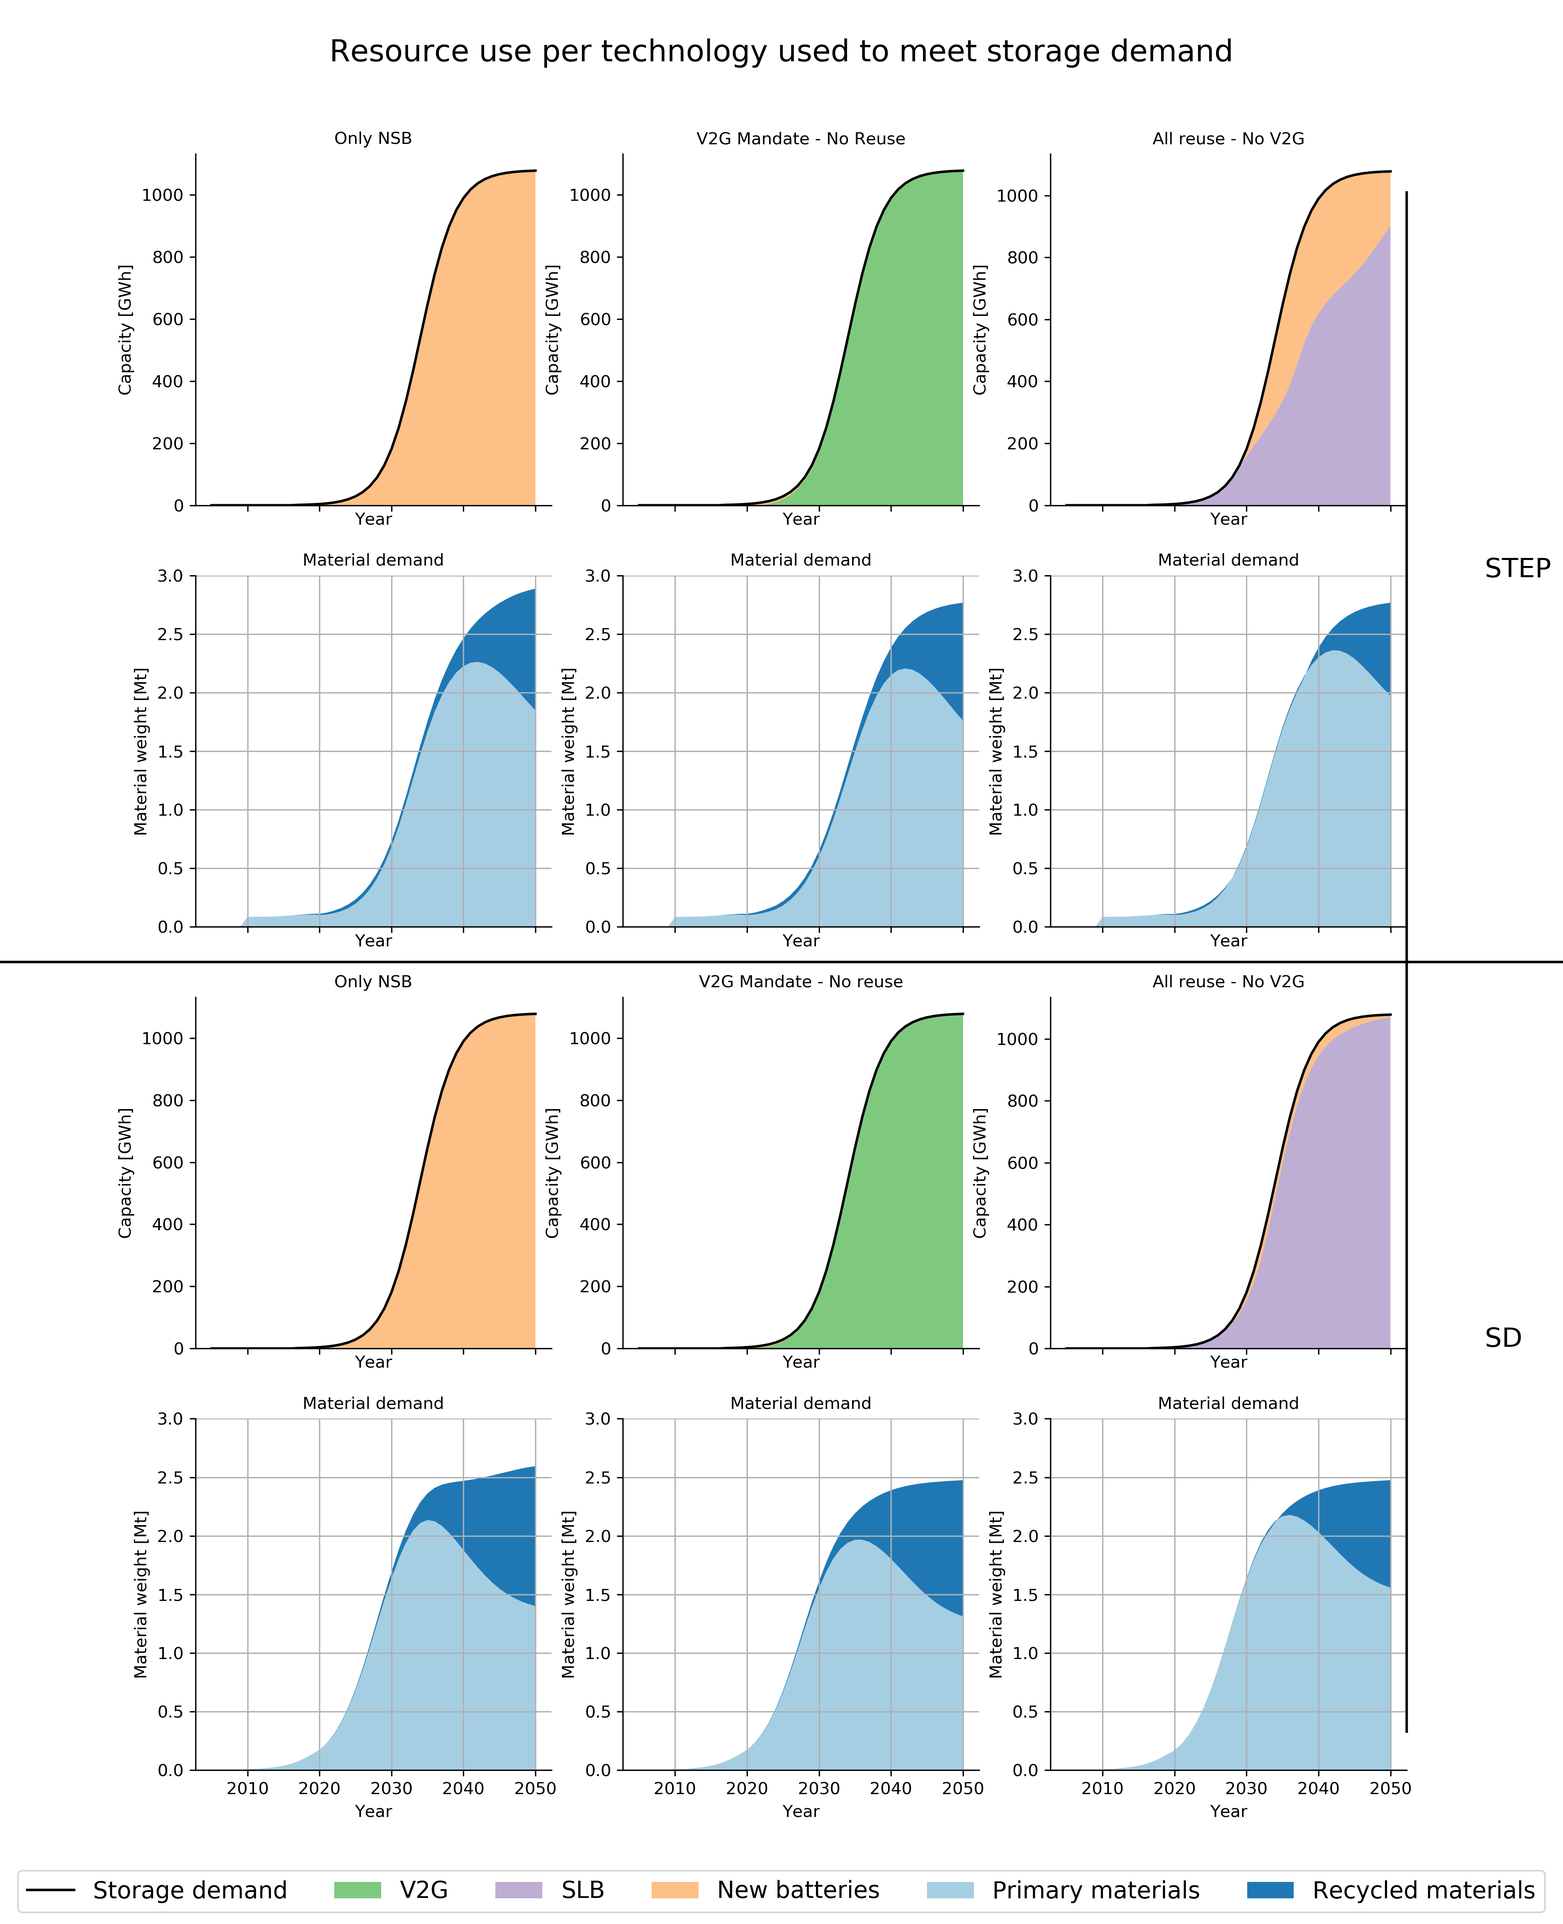
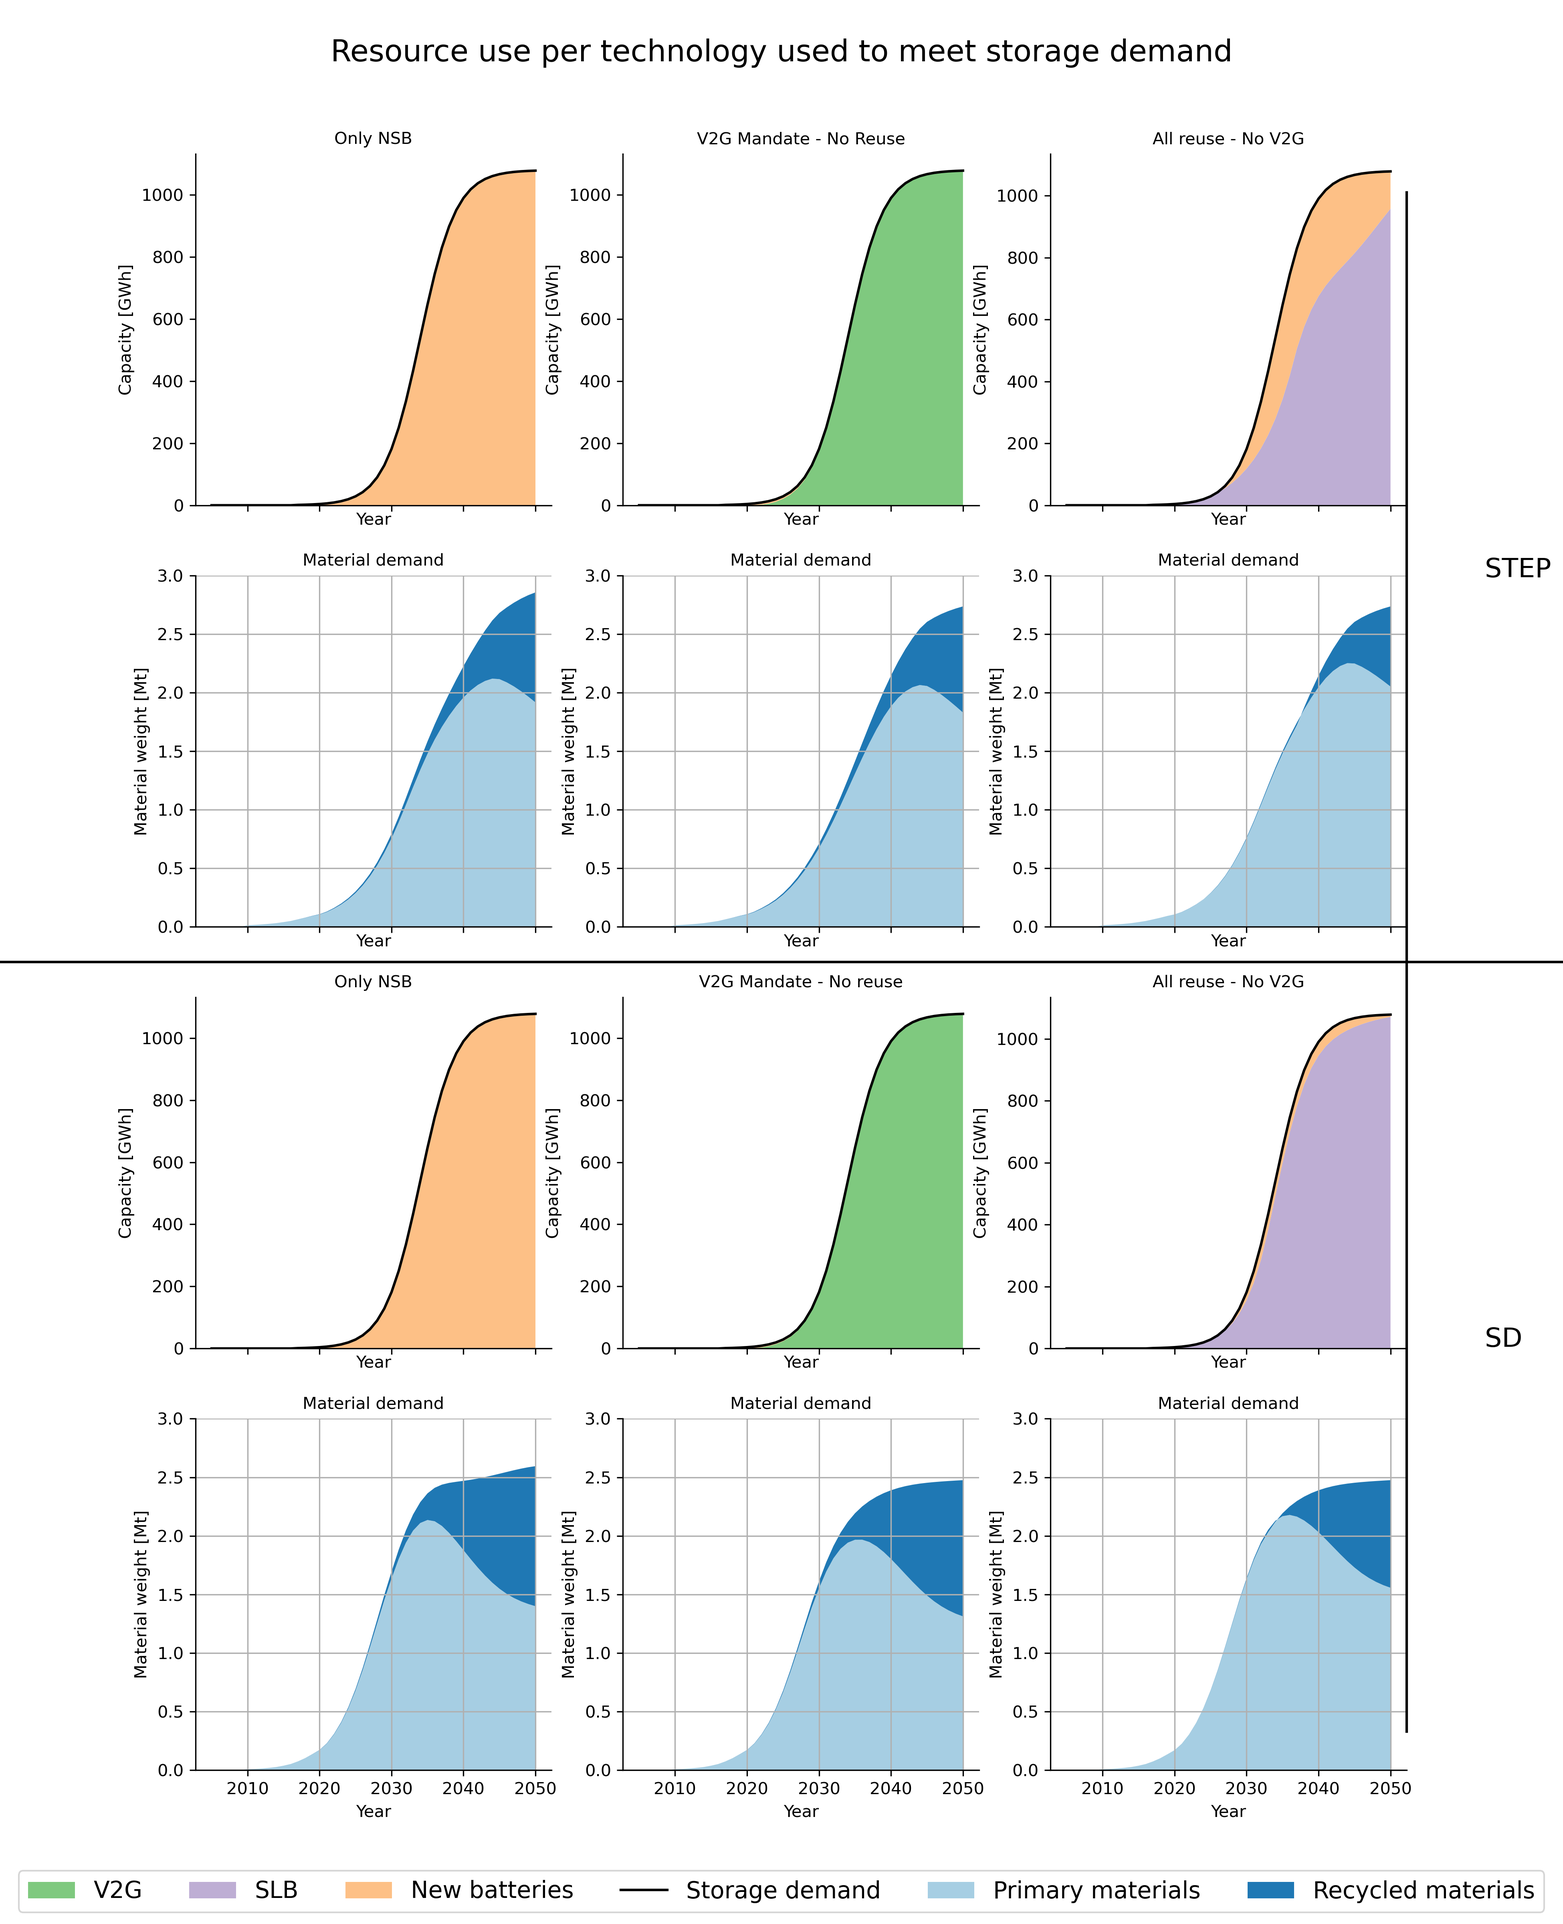
Re-did Figure 1

diff --git a/Model.py b/Model.py
@@ -1,5 +1,7 @@
 # %% 
 # Load a local copy of the current ODYM branch:
+from asyncio import new_event_loop
+from curses.panel import bottom_panel
 import sys
 import os
 import numpy as np
@@ -19,6 +21,8 @@ from tqdm import tqdm
 import time
 import matplotlib
 import product_component_model as pcm
+xlrd.xlsx.Element_has_iter = True
+
 mpl_logger = log.getLogger("matplotlib")
 mpl_logger.setLevel(log.WARNING)  
 # For Ipython Notebook only
@@ -52,6 +56,7 @@ Mylog.info('### 1. - Initialize.')
 #Load project-specific config file
 ProjectSpecs_ConFile = 'ODYM_Config_Vehicle_System.xlsx'
 Model_Configfile     = xlrd.open_workbook(os.path.join(DataPath, ProjectSpecs_ConFile))
+# Model_Configfile     = pd.read_excel(os.path.join(DataPath, ProjectSpecs_ConFile), engine = 'openpyxl')
 ScriptConfig         = {'Model Setting': Model_Configfile.sheet_by_name('Config').cell_value(3,3)} # Dictionary with config parameters
 Model_Configsheet    = Model_Configfile.sheet_by_name('Setting_' + ScriptConfig['Model Setting'])
 
@@ -140,7 +145,7 @@ ParameterDict = {}
 mo_start = 0 # set mo for re-reading a certain parameter
 ParameterDict['Vehicle_stock']= msc.Parameter(Name = 'Vehicle_stock',
                                                              ID = 1,
-                                                             P_Res = None,
+                                                             P_Res = 3,
                                                              MetaData = None,
                                                              Indices = 'z,t', #t=time, h=units
                                                              Values = np.load(os.getcwd()+'/data/scenario_data/stock.npy'), # in thousands
@@ -159,13 +164,13 @@ ParameterDict['Segment_shares']= msc.Parameter(Name = 'Segment_shares',
                                                              ID = 3,
                                                              P_Res = None,
                                                              MetaData = None,
-                                                             Indices = 'S,g,s,c', #t=time, h=units
-                                                             Values = np.load(os.getcwd()+'/data/scenario_data/vehicleSize_motorEnergy_passengerCars_global.npy')[:,5,:,:,:], # in %
+                                                             Indices = 'g,s,c', #t=time, h=units
+                                                             Values = np.load(os.getcwd()+'/data/scenario_data/vehicleSize_motorEnergy_passengerCars.npy')[:,:,:], # in %
                                                              Uncert=None,
                                                              Unit = '%')
 
 ParameterDict['Battery_chemistry_shares']= msc.Parameter(Name = 'Battery_chemistry_shares',
-                                                             ID = 3,
+                                                             ID = 4,
                                                              P_Res = None,
                                                              MetaData = None,
                                                              Indices = 'a,g,b,c', #t=time, h=units
@@ -176,7 +181,7 @@ ParameterDict['Battery_chemistry_shares']= msc.Parameter(Name = 'Battery_chemist
 
 
 ParameterDict['Material_content']= msc.Parameter(Name = 'Materials',
-                                                             ID = 3,
+                                                             ID = 5,
                                                              P_Res = None,
                                                              MetaData = None,
                                                              Indices = 'g,s,b,e', #t=time, h=units
@@ -257,6 +262,8 @@ ParameterDict['Storage_demand']= msc.Parameter(Name = 'Storage_demand',
                                                              Values = np.load(os.getcwd()+'/data/scenario_data/Energy_storage_demand.npy'),
                                                              Uncert=None,
                                                              Unit = 'GWh')
+
+#TODO: Add degradation NSB
 
 MaTrace_System = msc.MFAsystem(Name = 'MaTrace_Vehicle_Fleet_Global', 
                       Geogr_Scope = 'EU', 
@@ -465,13 +472,13 @@ for z in range(Nz):
                 lt_cm = {'Type': 'Normal', 'Mean': lt_bat, 'StdDev': sd_bat}, tau_cm = tau_bat)
             Model.case_1()
             # Vehicles layer
-            MaTrace_System.StockDict['S_C_3'].Values[z,S,g,:,:,:]           = np.einsum('sc,tc->stc', MaTrace_System.ParameterDict['Segment_shares'].Values[S,g,:,:] ,np.einsum('c,tc->tc', MaTrace_System.ParameterDict['Drive_train_shares'].Values[S,g,:],Model.sc_pr.copy()))
+            MaTrace_System.StockDict['S_C_3'].Values[z,S,g,:,:,:]           = np.einsum('sc,tc->stc', MaTrace_System.ParameterDict['Segment_shares'].Values[g,:,:] ,np.einsum('c,tc->tc', MaTrace_System.ParameterDict['Drive_train_shares'].Values[S,g,:],Model.sc_pr.copy()))
             MaTrace_System.StockDict['S_3'].Values[z,S,g,:,:]               = np.einsum('stc->st', MaTrace_System.StockDict['S_C_3'].Values[z,S,g,:,:,:])
-            MaTrace_System.FlowDict['V_2_3'].Values[z,S,g,:,:]              = np.einsum('sc,c->sc', MaTrace_System.ParameterDict['Segment_shares'].Values[S,g,:,:],np.einsum('c,c->c', MaTrace_System.ParameterDict['Drive_train_shares'].Values[S,g,:],Model.i_pr.copy()))
-            MaTrace_System.FlowDict['V_3_4'].Values[z,S,g,:,:,:]            = np.einsum('sc,tc->stc', MaTrace_System.ParameterDict['Segment_shares'].Values[S,g,:,:],np.einsum('c,tc->tc', MaTrace_System.ParameterDict['Drive_train_shares'].Values[S,g,:] , Model.oc_pr.copy()))
+            MaTrace_System.FlowDict['V_2_3'].Values[z,S,g,:,:]              = np.einsum('sc,c->sc', MaTrace_System.ParameterDict['Segment_shares'].Values[g,:,:],np.einsum('c,c->c', MaTrace_System.ParameterDict['Drive_train_shares'].Values[S,g,:],Model.i_pr.copy()))
+            MaTrace_System.FlowDict['V_3_4'].Values[z,S,g,:,:,:]            = np.einsum('sc,tc->stc', MaTrace_System.ParameterDict['Segment_shares'].Values[g,:,:],np.einsum('c,tc->tc', MaTrace_System.ParameterDict['Drive_train_shares'].Values[S,g,:] , Model.oc_pr.copy()))
 
             ###  LIBs layer, we calculate the stocks anew but this time via the battery dynamics S_C_bat
-            MaTrace_System.StockDict['B_C_3'].Values[z,S,:,g,:,:,:,:]       = np.einsum('abc,stc->asbtc', MaTrace_System.ParameterDict['Battery_chemistry_shares'].Values[:,g,:,:] , np.einsum('sc,tc->stc', MaTrace_System.ParameterDict['Segment_shares'].Values[S,g,:,:] \
+            MaTrace_System.StockDict['B_C_3'].Values[z,S,:,g,:,:,:,:]       = np.einsum('abc,stc->asbtc', MaTrace_System.ParameterDict['Battery_chemistry_shares'].Values[:,g,:,:] , np.einsum('sc,tc->stc', MaTrace_System.ParameterDict['Segment_shares'].Values[g,:,:] \
                 ,np.einsum('c,tc->tc', MaTrace_System.ParameterDict['Drive_train_shares'].Values[S,g,:],Model.sc_cm.copy())))
             MaTrace_System.StockDict['B_3'].Values[z,S,:,g,:,:,:]           = np.einsum('asbtc->asbt', MaTrace_System.StockDict['B_C_3'].Values[z,S,:,g,:,:,:,:])
             ### Calculate share of stock with V2G
@@ -482,11 +489,11 @@ for z in range(Nz):
             # Calculating batteryy demand to battery manufacturer including reuse and replacements
             #       Use Model.case_3() instead. This considers two different lifetimes, but replacements and reuse are not allowed.
             #       If we keep this definition, we need to add two additional flows B_1_3 and B_4_3
-            MaTrace_System.FlowDict['B_1_2'].Values[z,S,:,g,:,:,:]            = np.einsum('abt,st->asbt', MaTrace_System.ParameterDict['Battery_chemistry_shares'].Values[:,g,:,:] , np.einsum('sc,c->sc', MaTrace_System.ParameterDict['Segment_shares'].Values[S,g,:,:], \
+            MaTrace_System.FlowDict['B_1_2'].Values[z,S,:,g,:,:,:]            = np.einsum('abt,st->asbt', MaTrace_System.ParameterDict['Battery_chemistry_shares'].Values[:,g,:,:] , np.einsum('sc,c->sc', MaTrace_System.ParameterDict['Segment_shares'].Values[g,:,:], \
                 np.einsum('c,c->c', MaTrace_System.ParameterDict['Drive_train_shares'].Values[S,g,:],Model.i_cm.copy())))
             # Calculating the outflows based on the battery demand. Here again, this flow will be larger than the number of vehicles due to battery replacements, if allowed.
             # At the moment: LIB flows = EV flows
-            MaTrace_System.FlowDict['B_3_4'].Values[z,S,:,g,:,:,:,:]        = np.einsum('abc,stc->asbtc', MaTrace_System.ParameterDict['Battery_chemistry_shares'].Values[:,g,:,:] , np.einsum('sc,tc->stc', MaTrace_System.ParameterDict['Segment_shares'].Values[S,g,:,:], \
+            MaTrace_System.FlowDict['B_3_4'].Values[z,S,:,g,:,:,:,:]        = np.einsum('abc,stc->asbtc', MaTrace_System.ParameterDict['Battery_chemistry_shares'].Values[:,g,:,:] , np.einsum('sc,tc->stc', MaTrace_System.ParameterDict['Segment_shares'].Values[g,:,:], \
                 np.einsum('c,tc->tc', MaTrace_System.ParameterDict['Drive_train_shares'].Values[S,g,:] , Model.oc_cm.copy())))
             MaTrace_System.FlowDict['B_4_5'].Values[z,S,:,g,:,:,:,:]      = MaTrace_System.FlowDict['B_3_4'].Values[z,S,:,g,:,:,:,:]
             '''
@@ -704,26 +711,26 @@ what is insightful and meaningful as a figure and can create those figures for t
 The following is the code for the figures we show Francois 16.09.21
 '''
 # %% 
-def plot_V2G_scenarios():
+def plot_capacity_scenarios():
     from cycler import cycler
     import seaborn as sns
     scen_cycler = (cycler(color=['orangered', 'royalblue']) *
           cycler(linestyle=['-','--',':']))    
     z = 1 # Low, medium, high
     s = 1 # Low, medium, high
-    a = 0 # NCX, LFP, Next_Gen, Roskill
+    a = 4 # NCX, LFP, Next_Gen, Roskill
     R = 1 # LFP reused, no reuse, all reuse
     v = 4 # Low, medium, high, v2g mandate, no v2g
     e = 2 # Low, medium, high
     fig, ax = plt.subplots(1,2,figsize=(16,7))
     ax[0].set_prop_cycle(scen_cycler)
     ax[0].plot(MaTrace_System.IndexTable['Classification']['Time'].Items[70::], MaTrace_System.ParameterDict['Storage_demand'].Values[0,70::]/1000, '--k')
-    ax[0].plot(MaTrace_System.IndexTable['Classification']['Time'].Items[70::], MaTrace_System.ParameterDict['Storage_demand'].Values[2,70::]/1000, 'xk')
-    ax[0].plot(MaTrace_System.IndexTable['Classification']['Time'].Items[70::], MaTrace_System.ParameterDict['Storage_demand'].Values[3,70::]/1000, 'k')
-    ax[0].plot(MaTrace_System.IndexTable['Classification']['Time'].Items[70::], MaTrace_System.StockDict['C_3'].Values[z,0,a,0,:,70::].sum(axis=0)/1000, 'orangered', linestyle='-')
+    ax[0].plot(MaTrace_System.IndexTable['Classification']['Time'].Items[70::], MaTrace_System.ParameterDict['Storage_demand'].Values[1,70::]/1000, 'xk')
+    ax[0].plot(MaTrace_System.IndexTable['Classification']['Time'].Items[70::], MaTrace_System.ParameterDict['Storage_demand'].Values[2,70::]/1000, 'k')
+    ax[0].plot(MaTrace_System.IndexTable['Classification']['Time'].Items[70::], MaTrace_System.StockDict['C_3'].Values[z,0,a,1,:,70::].sum(axis=0)/1000, 'orangered', linestyle='-')
     ax[0].plot(MaTrace_System.IndexTable['Classification']['Time'].Items[70::], MaTrace_System.StockDict['C_3'].Values[z,0,a,2,:,70::].sum(axis=0)/1000)
     ax[0].plot(MaTrace_System.IndexTable['Classification']['Time'].Items[70::], MaTrace_System.StockDict['C_3'].Values[z,0,a,3,:,70::].sum(axis=0)/1000)
-    ax[0].plot(MaTrace_System.IndexTable['Classification']['Time'].Items[70::], MaTrace_System.StockDict['C_3'].Values[z,1,a,0,:,70::].sum(axis=0)/1000)
+    ax[0].plot(MaTrace_System.IndexTable['Classification']['Time'].Items[70::], MaTrace_System.StockDict['C_3'].Values[z,1,a,1,:,70::].sum(axis=0)/1000)
     ax[0].plot(MaTrace_System.IndexTable['Classification']['Time'].Items[70::], MaTrace_System.StockDict['C_3'].Values[z,1,a,2,:,70::].sum(axis=0)/1000)
     ax[0].plot(MaTrace_System.IndexTable['Classification']['Time'].Items[70::], MaTrace_System.StockDict['C_3'].Values[z,1,a,3,:,70::].sum(axis=0)/1000)
     ax[0].set_ylabel('Capacity [TWh]',fontsize =18)
@@ -731,7 +738,7 @@ def plot_V2G_scenarios():
     right_side.set_visible(False)
     top = ax[0].spines["top"]
     top.set_visible(False)
-    ax[0].legend(['Low storage demand','Medium storage demand','High storage demand', 'V2G low, STEP', 'V2G moderate, STEP', 'V2G mandate, STEP', 'V2G low, SD', 'V2G moderate, SD', 'V2G mandate, SD'], loc='upper left',prop={'size':15})
+    ax[0].legend(['Low storage demand','Medium storage demand','High storage demand', 'V2G low, STEP', 'V2G medium, STEP', 'V2G mandate, STEP', 'V2G low, SD', 'V2G medium, SD', 'V2G mandate, SD'], loc='upper left',prop={'size':15})
     ax[0].set_title('a) Available V2G capacity by scenario'.format(S), fontsize=20)
     ax[0].set_xlabel('Year',fontsize =16)
     ax[0].tick_params(axis='both', which='major', labelsize=18)
@@ -750,14 +757,14 @@ def plot_V2G_scenarios():
     e = 2 # Low, medium, high
     ax[1].set_prop_cycle(scen_cycler)
     ax[1].plot(MaTrace_System.IndexTable['Classification']['Time'].Items[70::], MaTrace_System.ParameterDict['Storage_demand'].Values[0,70::]/1000, '--k')
-    ax[1].plot(MaTrace_System.IndexTable['Classification']['Time'].Items[70::], MaTrace_System.ParameterDict['Storage_demand'].Values[2,70::]/1000, 'xk')
-    ax[1].plot(MaTrace_System.IndexTable['Classification']['Time'].Items[70::], MaTrace_System.ParameterDict['Storage_demand'].Values[3,70::]/1000, 'k')
+    ax[1].plot(MaTrace_System.IndexTable['Classification']['Time'].Items[70::], MaTrace_System.ParameterDict['Storage_demand'].Values[1,70::]/1000, 'xk')
+    ax[1].plot(MaTrace_System.IndexTable['Classification']['Time'].Items[70::], MaTrace_System.ParameterDict['Storage_demand'].Values[2,70::]/1000, 'k')
     ax[1].plot(MaTrace_System.IndexTable['Classification']['Time'].Items[70::], 
-                MaTrace_System.StockDict['C_6_SLB'].Values[z,0,a,0,:,70::].sum(axis=0)/1000, 'orangered', linestyle='-')
+                MaTrace_System.StockDict['C_6_SLB'].Values[z,0,a,1,:,70::].sum(axis=0)/1000, 'orangered', linestyle='-')
     ax[1].plot(MaTrace_System.IndexTable['Classification']['Time'].Items[70::], 
                 MaTrace_System.StockDict['C_6_SLB'].Values[z,0,a,2,:,70::].sum(axis=0)/1000)
     ax[1].plot(MaTrace_System.IndexTable['Classification']['Time'].Items[70::], 
-                MaTrace_System.StockDict['C_6_SLB'].Values[z,1,a,0,:,70::].sum(axis=0)/1000)
+                MaTrace_System.StockDict['C_6_SLB'].Values[z,1,a,1,:,70::].sum(axis=0)/1000)
     ax[1].plot(MaTrace_System.IndexTable['Classification']['Time'].Items[70::], 
                 MaTrace_System.StockDict['C_6_SLB'].Values[z,1,a,2,:,70::].sum(axis=0)/1000)
     ax[1].set_ylabel('Capacity [TWh]',fontsize =18)
@@ -772,7 +779,7 @@ def plot_V2G_scenarios():
     ax[1].set_xlim(2020,2050)
     plt.ylim(0,6)
     plt.savefig(os.path.join(os.getcwd(), 'results/Manuscript/capacity_scenarios'), dpi=300)
-# %% 
+
 def plot_only_NSB():
     from cycler import cycler
     import seaborn as sns
@@ -834,7 +841,6 @@ def plot_only_NSB():
     ax.tick_params(axis='both', which='major', labelsize=18)
     plt.ylim(0,4500)
 
-# %%
 def plot_energy_resource_graphs():
     from cycler import cycler
     import seaborn as sns
@@ -1000,7 +1006,6 @@ def plot_energy_resource_graphs():
     ax.tick_params(axis='both', which='major', labelsize=18)
     plt.ylim(0,3000)
 
-# %%
 def plot_resource_range():
     from cycler import cycler
     import seaborn as sns
@@ -1029,7 +1034,7 @@ def plot_resource_range():
         top.set_visible(False)
         ax.set_xlabel('Year',fontsize =16)
         ax.tick_params(axis='both', which='major', labelsize=18)
-# %%
+
 def plot_rec_resource_range():
     from cycler import cycler
     import seaborn as sns
@@ -1056,7 +1061,7 @@ def plot_rec_resource_range():
         top.set_visible(False)
         ax.set_xlabel('Year',fontsize =16)
         ax.tick_params(axis='both', which='major', labelsize=18)
-# %%
+
 def plot_flows():
     from cycler import cycler
     import seaborn as sns
